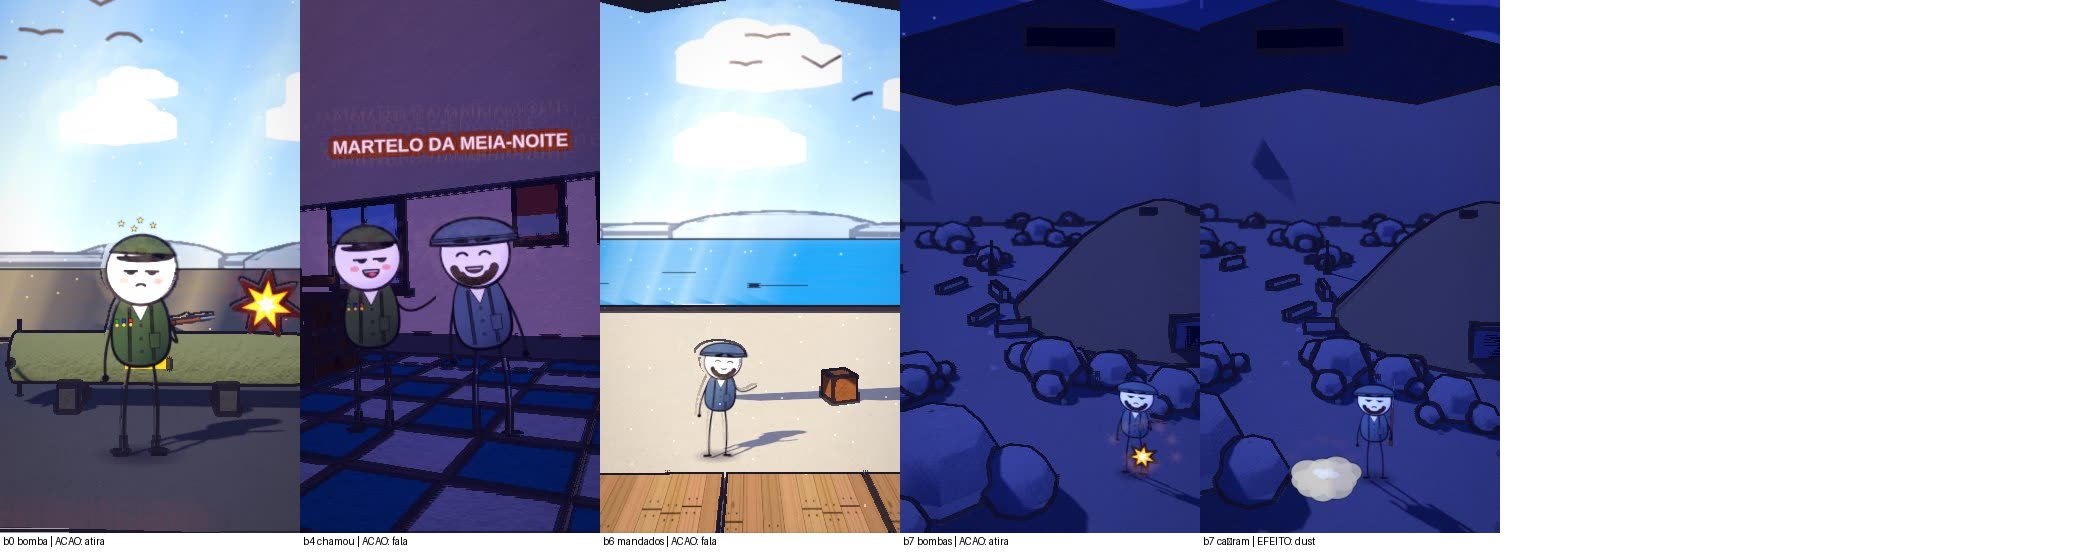
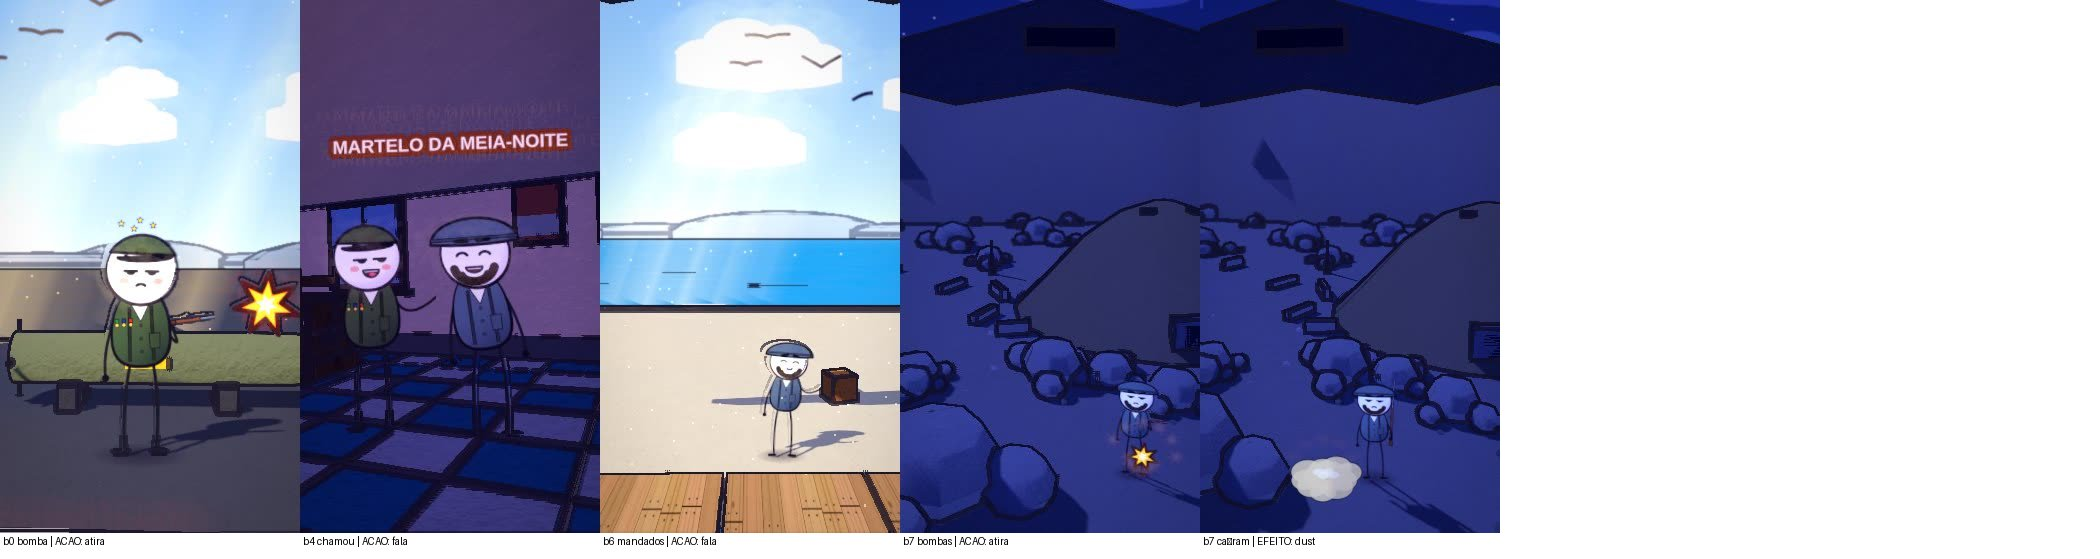
sync automatico da ferramenta (a473877); folhas de 16 videos regeneradas

Changed region(s): [[0.3095, 0.6082, 0.4333, 0.8211], [0.2786, 0.0, 0.3405, 0.0304], [0.4024, 0.0, 0.4333, 0.0304]]

diff --git a/ferramenta-shorts/web/story.js b/ferramenta-shorts/web/story.js
@@ -38,11 +38,11 @@ const SPEC = {
     { ...S('b2', A[2], A[3] - 1, X_mountain, "day", { h: 2.4, d0: 21.0, d1: 20.0, el: 5, fov: 46, cx: 0.0, cz: -2.0, hero: { hero: 'none', wide: true }, vary: false, nocut: true, trans: 'dissolve', actors: [pp(X_mountain, "GEN", 0, 0.0, -0.4, "stern")], props: [{ asset: "kit/mountain_bunker", at: [X_mountain + 0.0, -10.8], s: 1.6, fixo: true, drop: false }], fx: [{ k: 'birds', a: A[2], b: A[3] - 1, at: [X_mountain, DK + 7.5, -30], n: 6, dir: -1, off: 8 }, txt(X_mountain, WS(29, -2), A[3] - 1, "FORDOW", '#d8282f', '#fff6e0', 4.6, { s: 1.5, up: 0.42 })] }), nocut: true },
     { ...S('b3', A[3], Math.round(A[3] + (A[4] - 1 + 1 - (A[3])) * 0.5) - 1, X, "day", { actors: [], props: [{ asset: "kit/bunker_bomb", at: [X, -2.0], s: 1.27, y: (f) => DK, ry: 0.0, drop: false }], fx: [{ k: 'rotulo', a: WS(46, -3), b: A[4] - 1, prop: 0, off: [0, 0.06, 0], text: "BOMBA ANTIBUNKER", lado: 1, inv: true, s: 2.966 }, { k: 'rotulo', a: WS(53, -3), b: A[4] - 1, prop: 0, off: [0, 1.0, 0], text: "13 TONELADAS", lado: -1, s: 2.966 }], hero: { hero: 'none', explica: true }, trans: 'dissolve' }), cam: [{ f: A[3], at: [X + 0.0, DK + -0.265, -2.0], d: 15.1, az: 26, el: 10, fov: 44 }, { f: Math.round(A[3] + (A[4] - 1 + 1 - (A[3])) * 0.5) - 1, at: [X + 0.0, DK + -0.265, -2.0], d: 14.5, az: 12, el: 8, fov: 44 }], nocut: true, vary: false, creep: 0 }, { ...S('b3_x', Math.round(A[3] + (A[4] - 1 + 1 - (A[3])) * 0.5), A[4] - 1, X, "day", { actors: [], props: [{ asset: "kit/bunker_bomb", at: [X, -2.0], s: 1.27, y: (f) => DK, ry: 0.0, drop: false }], fx: [{ k: 'rotulo', a: WS(46, -3), b: A[4] - 1, prop: 0, off: [0, 0.06, 0], text: "BOMBA ANTIBUNKER", lado: 1, inv: true, s: 2.966 }, { k: 'rotulo', a: WS(53, -3), b: A[4] - 1, prop: 0, off: [0, 1.0, 0], text: "13 TONELADAS", lado: -1, s: 2.966 }], hero: { hero: 'none', explica: true }, trans: 'cut' }), cam: [{ f: Math.round(A[3] + (A[4] - 1 + 1 - (A[3])) * 0.5), at: [X + 0.0, DK + -0.265, -2.0], d: 13.29, az: -20, el: 6, fov: 44 }, { f: A[4] - 1, at: [X + 0.0, DK + -0.265, -2.0], d: 12.08, az: -6, el: 5, fov: 44 }], nocut: true, vary: false, glide: true, glideN: 22, creep: 0 },
     S('b4', A[4], A[5] - 1, X_hall, "study_dark", { h: 2.3, d0: 9.8, d1: 8.8, az0: 6, az1: 12, vary: false, hero: { hero: 'any', frame: 'medium', minH: 0.07, main: 2 }, trans: 'dissolve', actors: [_MA(pp(X_hall, "GEN", 0, -1.0, 1.3, "stern", { pose: 'talk', inter: { k: 'nod', a: Math.round(A[4] + (A[5] - 1 - (A[4])) * 0.12), b: Math.round(A[4] + (A[5] - 1 - (A[4])) * 0.82), dir: 1, n: 2, ph: 0 } }), { gests: [[WS(65) - 8, WS(65) + 46, 'point']] }), pp(X_hall, "PIL", 0, 1.0, 1.0, "smug", { pose: 'talk', inter: { k: 'lean', a: Math.round(A[4] + (A[5] - 1 - (A[4])) * 0.2), b: Math.round(A[4] + (A[5] - 1 - (A[4])) * 0.9), dir: -1, n: 2, ph: 3.14 } })], props: [{ asset: "kit/room_oriente_stone", at: [X_hall, 0], s: 1, drop: false }, { asset: "mk/Bookcase_2", at: [X_hall + 7.4, -3.4], s: 2.4, drop: false }, { asset: "mk/Table_Large", at: [X_hall + -6.6, -1.6], s: 2.2, drop: false }, { asset: "mk/Chair_1", at: [X_hall + -4.4, -1.2], s: 2.2, drop: false }, { asset: "mk/Chest_Wood", at: [X_hall + 6.9, 0.6], s: 2.2, drop: false }], fx: [txt(X_hall, WS(62, -2), A[5] - 1, "MARTELO DA MEIA-NOITE", '#fff6e0', '#7a3a1c', 4.5, { s: 1.5, up: 0.46 })] }),
-    { ...S('b5', A[5], A[6] - 1, X, "day", { h: 4.0, d0: 30.0, d1: 28.0, el: 5, fov: 46, cx: 0.0, cz: -9.7, hero: { hero: 'none', wide: true }, vary: false, nocut: true, trans: 'dissolve', actors: [], props: [{ asset: "kit/b2_air", at: [X + 0.6, 1.0], s: 3.12, fixo: true, drop: false }], fx: [{ k: 'birds', a: A[5], b: A[6] - 1, at: [X, DK + 7.5, -30], n: 6, dir: 1, off: 15 }, txt(X, WS(69, -2), A[6] - 1, "B-2", '#fff6e0', '#27408b', 4.6, { s: 1.5, up: 0.42 })] }), nocut: true },
-    { ...S('b6', A[6], A[7] - 1, X_harbor, "day", { h: 4.0, d0: 30.0, d1: 28.0, el: 5, fov: 46, cx: 0.0, cz: -9.7, hero: { hero: 'none', wide: true }, vary: false, nocut: true, trans: 'dissolve', actors: [_MA(pp(X_harbor, "PIL", 0, 0.0, -0.4, "smug"), { gests: [[WS(86) - 8, WS(86) + 46, 'point']] })], props: [{ asset: "kit/b2_air", at: [X_harbor + 0.6, 1.0], s: 3.12, fixo: true, drop: false }], fx: [{ k: 'birds', a: A[6], b: A[7] - 1, at: [X_harbor, DK + 4.5, -30], n: 4, dir: -1, off: 8 }] }), nocut: true },
+    { ...S('b5', A[5], A[6] - 1, X, "day", { h: 4.0, d0: 30.0, d1: 28.0, el: 5, fov: 46, cx: 0.0, cz: -9.7, hero: { hero: 'none', wide: true }, vary: false, nocut: true, trans: 'dissolve', actors: [], props: [{ asset: "kit/b2_air", at: [X + 0.0, 1.4], s: 3.12, fixo: true, drop: false }], fx: [{ k: 'birds', a: A[5], b: A[6] - 1, at: [X, DK + 7.5, -30], n: 6, dir: 1, off: 15 }, txt(X, WS(69, -2), A[6] - 1, "B-2", '#fff6e0', '#27408b', 4.6, { s: 1.5, up: 0.42 })] }), nocut: true },
+    { ...S('b6', A[6], A[7] - 1, X_harbor, "day", { h: 4.0, d0: 30.0, d1: 28.0, el: 5, fov: 46, cx: 0.0, cz: -9.7, hero: { hero: 'none', wide: true }, vary: false, nocut: true, trans: 'dissolve', actors: [_MA(pp(X_harbor, "PIL", 0, 0.0, -0.4, "smug"), { gests: [[WS(86) - 8, WS(86) + 46, 'point']] })], props: [{ asset: "kit/b2_air", at: [X_harbor + 0.0, 1.4], s: 3.12, fixo: true, drop: false }], fx: [{ k: 'birds', a: A[6], b: A[7] - 1, at: [X_harbor, DK + 4.5, -30], n: 4, dir: -1, off: 8 }] }), nocut: true },
     { ...S('b7', A[7], A[8] - 1, X_mountain, "night", { h: 4.0, d0: 30.0, d1: 28.0, el: 11, fov: 46, az0: -38, az1: 32, cx: 0.0, cz: -9.7, punches: [{ f: WS(96), amt: 0.16, dur: 20 }], hero: { hero: 'none', wide: true }, vary: false, nocut: true, trans: 'dissolve', shots: [WS(96)], actors: [_MA(pp(X_mountain, "PIL", 0, 0.0, -0.4, "stern"), { over: { rifle: true } })], props: [{ asset: "kit/b2_air", at: [X_mountain + 0.0, -1.0], s: 3.12, fixo: true, drop: false }, { asset: "kit/mountain_bunker", at: [X_mountain + 7.0, -16.1], s: 1.6, fixo: true, drop: false }], fx: [{ k: 'burst', a: A[7] + 25, at: [X_mountain + 0.0, DK + 1.8, 3.2], s: 1.2 }, { k: 'burst', a: A[7] + 45, at: [X_mountain + 0.0, DK + 1.8, 3.2], s: 1.2 }, { k: "puff", a: A[7] + 60, b: A[7] + 86, at: [X_mountain + 0.9, DK + 0.12, 1.0], s: 0.75 }, { k: "dust", a: WS(97), b: WS(97) + 28, at: [X_mountain + 0.9, DK + 0.12, 1.7], s: 1.3 }, { k: 'flash', a: WS(96), b: WS(96) + 10, at: [X_mountain + 1.55, DK - 0.55, 1.7], s: 1.6 }] }), nocut: true },
     { ...S('b8', A[8], A[9] - 1, X_harbor, "night", { h: 2.4, d0: 10.5, d1: 10.0, el: 5, fov: 46, cx: 0.0, cz: -5.1, hero: { hero: 'none', wide: true }, vary: false, nocut: true, trans: 'dissolve', actors: [pp(X_harbor, "PIL", 0, 0.0, -0.4, "stern")], props: [{ asset: "kit/submarino_ww2", at: [X_harbor + 0.0, -11.4], s: 1.2, fixo: true, drop: false }], fx: [{ k: "splash", a: A[8] + 30, b: A[8] + 56, at: [X_harbor, DK + 0.5, 1.2], s: 1.1 }, { k: "puff", a: A[8] + 40, b: A[8] + 66, at: [X_harbor + 0.9, DK + 0.12, 1.0], s: 0.75 }] }), nocut: true },
-    { ...S('b9', A[9], A[10] - 1, X, "night", { h: 4.0, d0: 30.0, d1: 28.0, el: 5, fov: 46, cx: 0.0, cz: -9.7, hero: { hero: 'none', wide: true }, vary: false, nocut: true, trans: 'dissolve', actors: [], props: [{ asset: "kit/b2_air", at: [X + 0.6, 1.0], s: 3.12, fixo: true, drop: false }, { asset: "buildings/house_small", at: [X + -5.5, -14.0], s: 1.25, drop: false }, { asset: "nature/picket_fence", at: [X + 3.4, -6.8], s: 1.3 }, { asset: "nature/tree_oak", at: [X + 6.5, -11.0], s: 1.3 }], fx: [{ k: "puff", a: A[9] + 30, b: A[9] + 56, at: [X + 0.9, DK + 0.12, 1.0], s: 0.75 }] }), nocut: true },
+    { ...S('b9', A[9], A[10] - 1, X, "night", { h: 4.0, d0: 30.0, d1: 28.0, el: 5, fov: 46, cx: 0.0, cz: -9.7, hero: { hero: 'none', wide: true }, vary: false, nocut: true, trans: 'dissolve', actors: [], props: [{ asset: "kit/b2_air", at: [X + 0.0, 1.4], s: 3.12, fixo: true, drop: false }, { asset: "buildings/house_small", at: [X + -5.5, -14.0], s: 1.25, drop: false }, { asset: "nature/picket_fence", at: [X + 3.4, -6.8], s: 1.3 }, { asset: "nature/tree_oak", at: [X + 6.5, -11.0], s: 1.3 }], fx: [{ k: "puff", a: A[9] + 30, b: A[9] + 56, at: [X + 0.9, DK + 0.12, 1.0], s: 0.75 }] }), nocut: true },
     S('b10', A[10], A[11] - 1, X_hall, "study", { h: 2.3, d0: 9.8, d1: 8.8, az0: -6, az1: 2, hero: { hero: 'any', frame: 'medium', minH: 0.07, main: 2 }, trans: 'dissolve', actors: [pp(X_hall, "GEN", 0, -1.0, 1.3, "stern", { pose: 'talk', inter: { k: 'lunge', a: Math.round(A[10] + (A[11] - 1 - (A[10])) * 0.12), b: Math.round(A[10] + (A[11] - 1 - (A[10])) * 0.82), dir: 1, n: 2, ph: 0 } }), pp(X_hall, "POV", 0, 1.0, 1.0, "worried", { pose: 'talk', inter: { k: 'nod', a: Math.round(A[10] + (A[11] - 1 - (A[10])) * 0.2), b: Math.round(A[10] + (A[11] - 1 - (A[10])) * 0.9), dir: -1, n: 2, ph: 3.14 } })], props: [{ asset: "kit/room_europa_stone", at: [X_hall, 0], s: 1, drop: false }, { asset: "mk/Cabinet", at: [X_hall + -7.2, -3.3], s: 2.3, drop: false }, { asset: "mk/Bed_Twin1", at: [X_hall + 7.0, -2.4], s: 2.1, drop: false }, { asset: "mk/Nightstand_Shelf", at: [X_hall + 4.6, -3.2], s: 2.2, drop: false }, { asset: "mk/Stool", at: [X_hall + -4.8, -2.8], s: 2.2, drop: false }, { asset: "mk/Crate_Metal", at: [X_hall + -7.4, 0.8], s: 2.0, drop: false }], fx: [{ k: 'text', a: A[10], b: A[11] - 1, at: [X_hall + 0.0, DK, -1.3], text: "DESTRUÍDAS?", s: 2.625, col: '#3a2416', size: 120, board: true }] }),
     S('b11', A[11], A[12] - 1, X_hall, "day", { h: 2.3, d0: 9.8, d1: 8.8, az0: 24, az1: 10, hero: { hero: 'any', frame: 'medium', minH: 0.07, main: 2 }, trans: 'dissolve', actors: [pp(X_hall, "POV", 0, -1.0, 1.3, "shrug", { pose: 'talk', inter: { k: 'step', a: Math.round(A[11] + (A[12] - 1 - (A[11])) * 0.12), b: Math.round(A[11] + (A[12] - 1 - (A[11])) * 0.82), dir: 1, n: 2, ph: 0 } }), pp(X_hall, "POV", 1, 1.0, 1.0, "worried", { pose: 'talk', inter: { k: 'nod', a: Math.round(A[11] + (A[12] - 1 - (A[11])) * 0.2), b: Math.round(A[11] + (A[12] - 1 - (A[11])) * 0.9), dir: -1, n: 2, ph: 3.14 } })] }),
     S('b12', A[12], A[13] - 1, X_hall, "day", { h: 2.4, d0: 6.4, d1: 5.6, az0: -32, az1: -18, hero: { hero: 'any', frame: 'medium', minH: 0.07, main: 1 }, trans: 'dissolve', actors: [pp(X_hall, "GEN", 0, 0.0, 1.3, "grin", { pose: 'talk' })], props: [{ asset: "kit/bunker_bomb", at: [X_hall + 0.0, -3.6], s: 1.0, drop: false }], fx: [{ k: 'stars', a: A[12] + 6, b: A[12] + 40, at: [X_hall + 0.0, DK + 1.6, -3.1], s: 0.8 }, { k: 'birds', a: A[12], b: A[13] - 1, at: [X_hall, DK + 4.5, -30], n: 4, dir: 1, off: 8 }, txt(X_hall, WS(138, -2), A[13] - 1, "COMENTE!", '#fff6e0', '#7a3a1c', 4.6, { s: 1.5, up: 0.55 })] })

diff --git a/ferramenta-shorts/stories/martelo2025/cronograma.md b/ferramenta-shorts/stories/martelo2025/cronograma.md
@@ -31,13 +31,13 @@ N | Etapa | O que confere | Estado | Proximo passo
 5 | Voz | narracao neural gerada e tempos por palavra | FEITO | 
 6 | Estilo e enquadramento | autoajuste de luz/cor e ajuste de camera de cada tomada | FEITO | 
 7 | Gates | camera OK, todas as tomadas OK, estilo OK | FEITO | 
-8 | Storyboard e grade de acoes | video inteiro em quadros + 1 quadro no instante de cada acao | PENDENTE | 
-9 | Revisao escrita e aprovacao | uma linha por frase conferindo com a folha 3 e com o quadro da pesquisa | BLOQUEADO (etapa anterior pendente) | ./aprovar_storyboard.sh martelo2025
+8 | Storyboard e grade de acoes | video inteiro em quadros + 1 quadro no instante de cada acao | FEITO | 
+9 | Revisao escrita e aprovacao | uma linha por frase conferindo com a folha 3 e com o quadro da pesquisa | PENDENTE | ./aprovar_storyboard.sh martelo2025
 10 | Render | todos os quadros renderizados nesta versao das folhas | BLOQUEADO (etapa anterior pendente) | 
 11 | Montagem e som | trechos + voz + musica + efeitos; volume normalizado | BLOQUEADO (etapa anterior pendente) | 
 12 | Conferencia | conferir.sh sem falha e folha de contato olhada | BLOQUEADO (etapa anterior pendente) | ./conferir.sh martelo2025
 13 | Auditoria das acoes | 1 quadro do mp4 em cada palavra de acao | BLOQUEADO (etapa anterior pendente) | bash auditar_acoes.sh local martelo2025 <mp4>
 14 | Entrega | mp4 original 1080x1920 enviado; commit e push | BLOQUEADO (etapa anterior pendente) | 
 
-**Etapa atual:** 8. Storyboard e grade de acoes
+**Etapa atual:** 9. Revisao escrita e aprovacao
 

diff --git a/ferramenta-shorts/stories/montgolfier1783/cronograma.md b/ferramenta-shorts/stories/montgolfier1783/cronograma.md
@@ -1,6 +1,6 @@
 # CRONOGRAMA - Curiosidade e Ciência EP 18 - Os Primeiros Passageiros do Céu
 
-Gerado em 24/11 21:13 | 13 cenas | metricas: acoes_encenadas 100%, acoes_chave_com_efeito 100%, explicacoes_cobertas 100%, cenario_e_epoca_ok 100%
+Gerado em 24/11 21:17 | 13 cenas | metricas: acoes_encenadas 100%, acoes_chave_com_efeito 100%, explicacoes_cobertas 100%, cenario_e_epoca_ok 100%
 
 ## 1. Plano de cenas (o que cada frase vai mostrar)
 

diff --git a/ferramenta-shorts/stories/velcro1941/cronograma.md b/ferramenta-shorts/stories/velcro1941/cronograma.md
@@ -1,6 +1,6 @@
 # CRONOGRAMA - Curiosidade e Ciência EP 16 - O Cachorro que Inventou o Velcro
 
-Gerado em 24/11 21:13 | 13 cenas | metricas: acoes_encenadas 100%, acoes_chave_com_efeito 100%, explicacoes_cobertas 100%, cenario_e_epoca_ok 100%
+Gerado em 24/11 21:17 | 13 cenas | metricas: acoes_encenadas 100%, acoes_chave_com_efeito 100%, explicacoes_cobertas 100%, cenario_e_epoca_ok 100%
 
 ## 1. Plano de cenas (o que cada frase vai mostrar)
 

diff --git a/ferramenta-shorts/stories/semmelweis1847/cronograma.md b/ferramenta-shorts/stories/semmelweis1847/cronograma.md
@@ -1,6 +1,6 @@
 # CRONOGRAMA - Curiosidade e Ciência EP 13 - O Médico que Mandou Lavar as Mãos
 
-Gerado em 24/11 21:13 | 13 cenas | metricas: acoes_encenadas 100%, acoes_chave_com_efeito 100%, explicacoes_cobertas 0%, cenario_e_epoca_ok 100%
+Gerado em 24/11 21:17 | 13 cenas | metricas: acoes_encenadas 100%, acoes_chave_com_efeito 100%, explicacoes_cobertas 0%, cenario_e_epoca_ok 100%
 
 ## 1. Plano de cenas (o que cada frase vai mostrar)
 

diff --git a/ferramenta-shorts/stories/tycho1566/cronograma.md b/ferramenta-shorts/stories/tycho1566/cronograma.md
@@ -1,6 +1,6 @@
 # CRONOGRAMA - Curiosidade e Ciência EP 12 - O Astrônomo do Nariz de Metal
 
-Gerado em 24/11 21:13 | 12 cenas | metricas: acoes_encenadas 100%, acoes_chave_com_efeito 100%, explicacoes_cobertas 100%, cenario_e_epoca_ok 100%
+Gerado em 24/11 21:17 | 12 cenas | metricas: acoes_encenadas 100%, acoes_chave_com_efeito 100%, explicacoes_cobertas 100%, cenario_e_epoca_ok 100%
 
 ## 1. Plano de cenas (o que cada frase vai mostrar)
 

diff --git a/ferramenta-shorts/stories/pasteur1885/cronograma.md b/ferramenta-shorts/stories/pasteur1885/cronograma.md
@@ -1,6 +1,6 @@
 # CRONOGRAMA - Curiosidade e Ciência EP 06 - Pasteur e a Vacina da Raiva
 
-Gerado em 24/11 21:13 | 12 cenas | metricas: acoes_encenadas 100%, acoes_chave_com_efeito 100%, explicacoes_cobertas 100%, cenario_e_epoca_ok 100%
+Gerado em 24/11 21:17 | 12 cenas | metricas: acoes_encenadas 100%, acoes_chave_com_efeito 100%, explicacoes_cobertas 100%, cenario_e_epoca_ok 100%
 
 ## 1. Plano de cenas (o que cada frase vai mostrar)
 

diff --git a/ferramenta-shorts/stories/eratostenes240/cronograma.md b/ferramenta-shorts/stories/eratostenes240/cronograma.md
@@ -1,6 +1,6 @@
 # CRONOGRAMA - Curiosidade e Ciência EP 10 - Eratóstenes Mede a Terra
 
-Gerado em 24/11 21:13 | 12 cenas | metricas: acoes_encenadas 100%, acoes_chave_com_efeito 100%, explicacoes_cobertas 100%, cenario_e_epoca_ok 100%
+Gerado em 24/11 21:17 | 12 cenas | metricas: acoes_encenadas 100%, acoes_chave_com_efeito 100%, explicacoes_cobertas 100%, cenario_e_epoca_ok 100%
 
 ## 1. Plano de cenas (o que cada frase vai mostrar)
 

diff --git a/ferramenta-shorts/stories/franklin1752/cronograma.md b/ferramenta-shorts/stories/franklin1752/cronograma.md
@@ -1,6 +1,6 @@
 # CRONOGRAMA - Curiosidade e Ciência EP 07 - Franklin, a Pipa e o Raio
 
-Gerado em 24/11 21:13 | 12 cenas | metricas: acoes_encenadas 100%, acoes_chave_com_efeito 100%, explicacoes_cobertas 100%, cenario_e_epoca_ok 100%
+Gerado em 24/11 21:17 | 12 cenas | metricas: acoes_encenadas 100%, acoes_chave_com_efeito 100%, explicacoes_cobertas 100%, cenario_e_epoca_ok 100%
 
 ## 1. Plano de cenas (o que cada frase vai mostrar)
 

diff --git a/ferramenta-shorts/stories/galileu1589/cronograma.md b/ferramenta-shorts/stories/galileu1589/cronograma.md
@@ -1,6 +1,6 @@
 # CRONOGRAMA - Curiosidade e Ciência EP 03 - Galileu e a Torre de Pisa
 
-Gerado em 24/11 21:13 | 12 cenas | metricas: acoes_encenadas 100%, acoes_chave_com_efeito 100%, explicacoes_cobertas 100%, cenario_e_epoca_ok 100%
+Gerado em 24/11 21:17 | 12 cenas | metricas: acoes_encenadas 100%, acoes_chave_com_efeito 100%, explicacoes_cobertas 100%, cenario_e_epoca_ok 100%
 
 ## 1. Plano de cenas (o que cada frase vai mostrar)
 

diff --git a/ferramenta-shorts/stories/microondas1945/cronograma.md b/ferramenta-shorts/stories/microondas1945/cronograma.md
@@ -1,6 +1,6 @@
 # CRONOGRAMA - Curiosidade e Ciência EP 05 - O Micro-ondas e o Chocolate
 
-Gerado em 24/11 21:13 | 12 cenas | metricas: acoes_encenadas 100%, acoes_chave_com_efeito 67%, explicacoes_cobertas 100%, cenario_e_epoca_ok 100%
+Gerado em 24/11 21:17 | 12 cenas | metricas: acoes_encenadas 100%, acoes_chave_com_efeito 67%, explicacoes_cobertas 100%, cenario_e_epoca_ok 100%
 
 ## 1. Plano de cenas (o que cada frase vai mostrar)
 

diff --git a/ferramenta-shorts/stories/roadster2018/cronograma.md b/ferramenta-shorts/stories/roadster2018/cronograma.md
@@ -1,6 +1,6 @@
 # CRONOGRAMA - Poder e Fama EP 08 - O Carro que Foi Parar no Espaço
 
-Gerado em 24/11 21:13 | 11 cenas | metricas: acoes_encenadas 100%, acoes_chave_com_efeito 100%, explicacoes_cobertas 100%, cenario_e_epoca_ok 100%
+Gerado em 24/11 21:17 | 11 cenas | metricas: acoes_encenadas 100%, acoes_chave_com_efeito 100%, explicacoes_cobertas 100%, cenario_e_epoca_ok 100%
 
 ## 1. Plano de cenas (o que cada frase vai mostrar)
 
